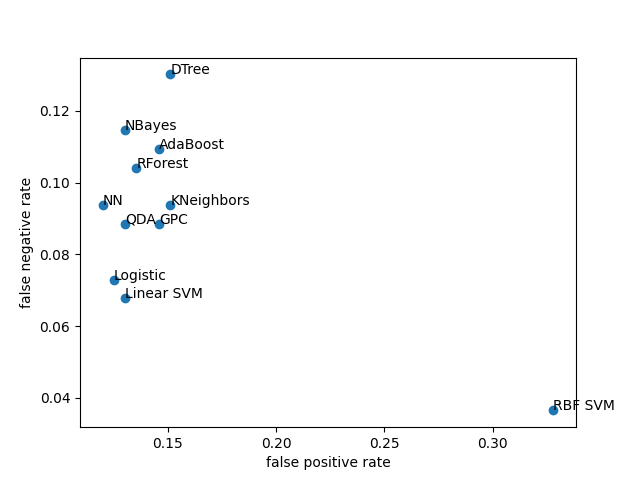
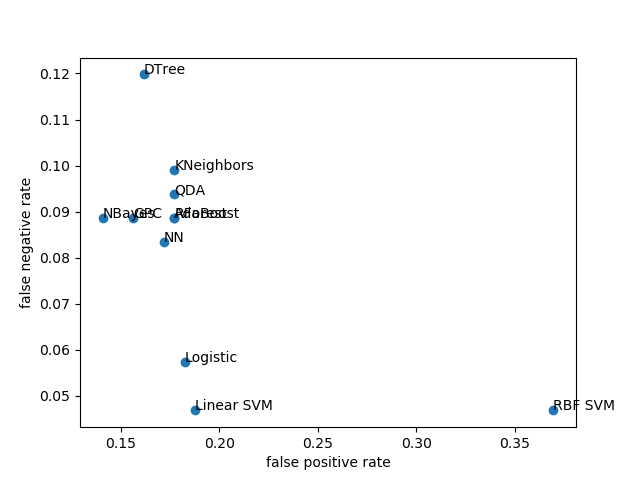
minor

diff --git a/main.py b/main.py
@@ -43,8 +43,7 @@ for row in arff.load('pima.arff'):
 X0, X1, y0, y1 = sklearn.model_selection.train_test_split(X,
                                                           y,
                                                           train_size=576,
-                                                          random_state=123456,
-                                                          stratify=y)
+                                                          random_state=123456)
 
 scaler = sklearn.preprocessing.StandardScaler()
 error0 = []
